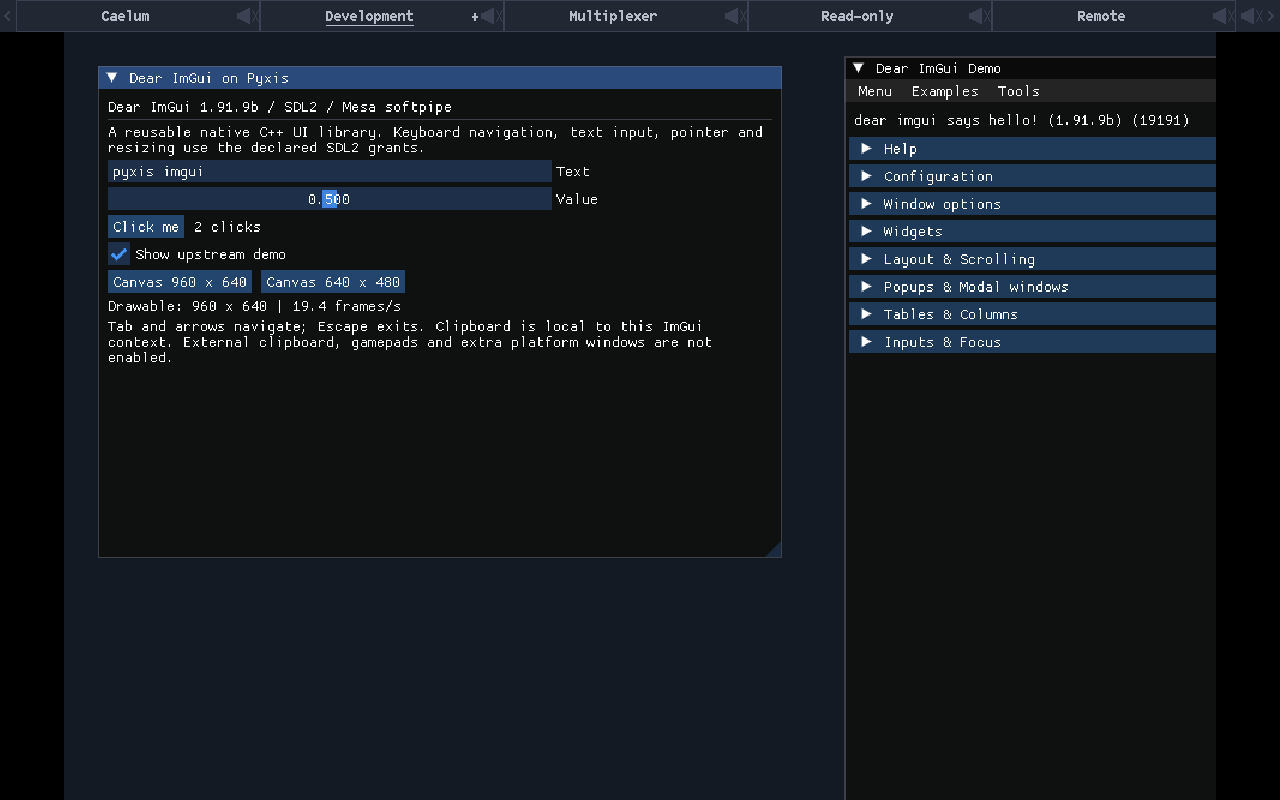
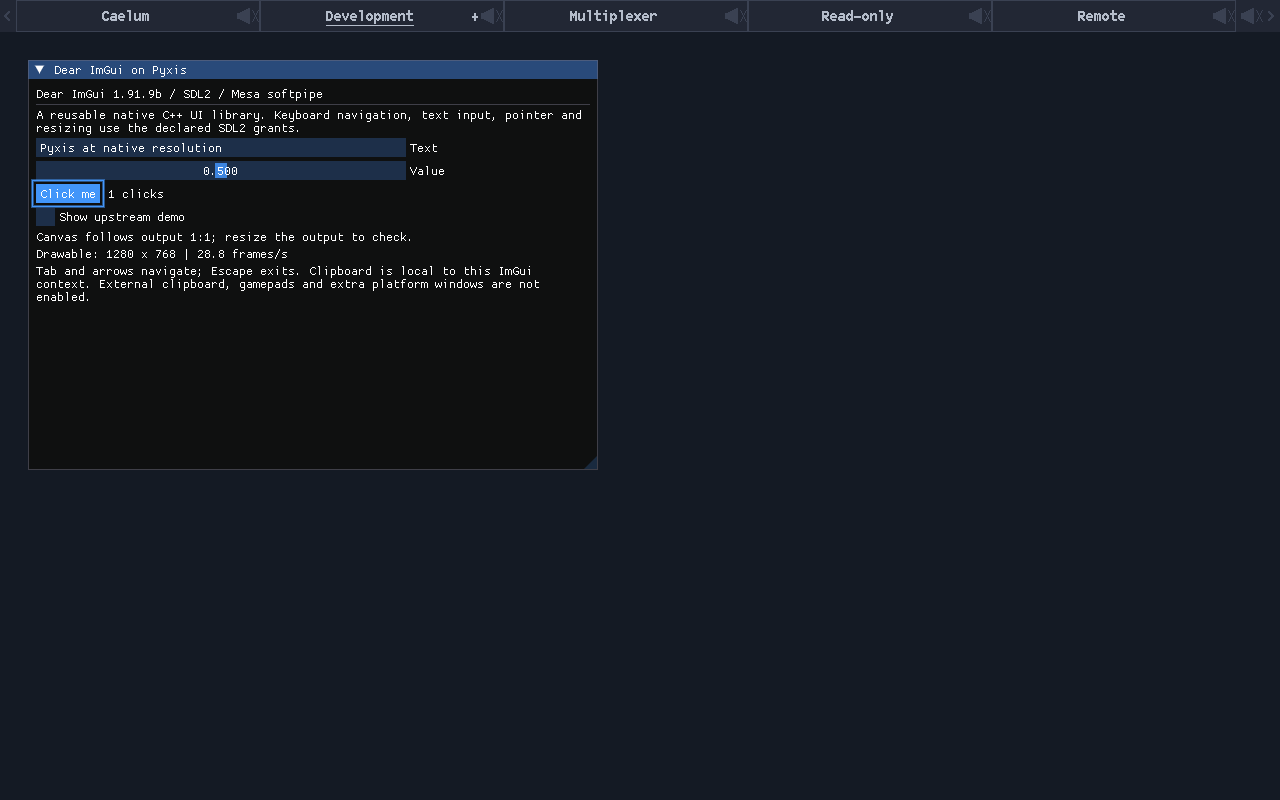
Keep ImGui graphics qualification at one-to-one output resolution

diff --git a/docs/development/experiments/imgui-native.md b/docs/development/experiments/imgui-native.md
@@ -24,12 +24,19 @@ GPU/net/RNG, 1280×800 output. The private qualification archive added only the
 asset-free demo; the shipping image/package policy does not embed it. GL 3.3
 compatibility, static Mesa softpipe, MSAA off, swap interval zero. Real text
 entry, pointer button activation and keyboard activation worked; count advanced
-from zero to two. Context-local cut/paste preserved the edited text. Logical
-canvas resized 960×640 → 640×480 → 960×640 without a crash or corrupted frame.
+from zero to two. Context-local cut/paste preserved the edited text. The initial fixed canvas resized without a crash, but its fractional
+aspect-fit enlargement made ProggyClean strokes uneven. The corrected demo
+follows output geometry: native 1024×768 → 1440×900 → 1280×800, with canvas
+1024×736 → 1440×868 → 1280×768 after the 32-pixel navigation bar. GDB confirms
+matching canvas, IO DisplaySize, viewport and native buffer, and
+DisplayFramebufferScale=(1,1). The replacement gallery is 1:1; a 4× nearest
+zoom confirms uniform glyph strokes. Default ProggyClean remains 13 px,
+oversample H/V=1, PixelSnapH=true, FontGlobalScale=1; GL atlas filtering is
+the upstream linear default. No font change or fonts-package dependency.
 The upstream demo window also rendered. Escape returned to the prompt.
 
 GDB hardware breakpoint at `ImGui_ImplSDL2_NewFrame` (no injected calls) showed
-matching IO/canvas sizes at both resolutions, rendered vertices, one-window
+matching IO/canvas sizes at the tested resolutions, rendered vertices, one-window
 platform flags and keyboard/docking enabled. A Remote launch lacking DISPLAY
 failed visibly with `Missing required resource display`, without starting a
 second renderer. This is not native-machine or SoH qualification, a comprehensive
@@ -48,3 +55,8 @@ staged demo and the interacted-with binary have identical SHA-256. Rebased onto
 ImGui profile and program files are byte-identical after this rebase.
 
 No ROM or derived game assets were accessed by this task.
+
+Requested performance follow-up: matched Linux softpipe baseline on horse and
+an unmerged per-frame Pyxis split are pending; the UI's rolling FPS label is
+not a performance result. The split will distinguish rendering, swap/readback,
+SDL submission/wait and sleep, and compare GTK/headless display behavior.

diff --git a/docs/gallery/README.md b/docs/gallery/README.md
@@ -29,9 +29,10 @@ Rules for entries:
 **Dear ImGui's first window, 2026-10-24.** ImGui 1.91.9b-docking on Mesa
 softpipe through the native SDL2/OpenGL3 profile, ports #161, parent based on
 `e2fa2694`. Nested Q35/KVM, four CPUs, 4 GiB and VirtIO GPU at 1280×800;
-the application uses a 960×640 logical canvas. Actual QEMU framebuffer after
+the application follows the 1280×768 content area at 1:1. Actual QEMU framebuffer after
 keyboard text entry and pointer/keyboard button activation. The application
-also resized to 640×480 and back. No game assets or native-hardware claim.
+also followed output resize at 1:1. Default ProggyClean 13 px, no font substitution
+or fractional presentation scaling. No game assets or native-hardware claim.
 
 ![Upstream blurgtext demo on Pyxis](images/2026-10-24-blurgtext-upstream-qemu.png)
 

diff --git a/docs/wip/ship-of-harkinian.md b/docs/wip/ship-of-harkinian.md
@@ -179,7 +179,7 @@ first target links and stop with a bounded proposal if the current ceilings fail
    font/component notices and independently selected static SDL/GL backends.
    Delivered `imgui-dev`, separate `imgui-sdl2-opengl3-dev` and the asset-free
    `imgui-demo` package. Nested QEMU: softpipe window, keyboard text/navigation,
-   pointer clicks and 960×640↔640×480 logical resize; independent staged CMake
+   pointer clicks and 1:1 output-following resize; independent staged CMake
    consumer and GDB inspection. [Record](../development/experiments/imgui-native.md).
    Native hardware and a game frame remain later checks.
    **After this task chronium can:** run a reusable native ImGui application.

diff --git a/docs/development/library-dev-packages.md b/docs/development/library-dev-packages.md
@@ -158,7 +158,7 @@ ordinary SDL2 archive. Backends keep their standard `backends/` header paths.
 
 The optional `imgui-demo` package has declared graphics/input/runtime grants;
 it stays outside the boot archive. It demonstrates text, keyboard navigation,
-pointer input and logical resizing. Escape exits. Multi-viewports are refused;
+pointer input and output resizing at 1:1. Escape exits. Multi-viewports are refused;
 gamepad, URL, system cursor shapes and native IME are outside the profile.
 Clipboard actions use ImGui's context-local buffer, with no system-clipboard
 claim. The [qualification record](experiments/imgui-native.md) gives the tested
